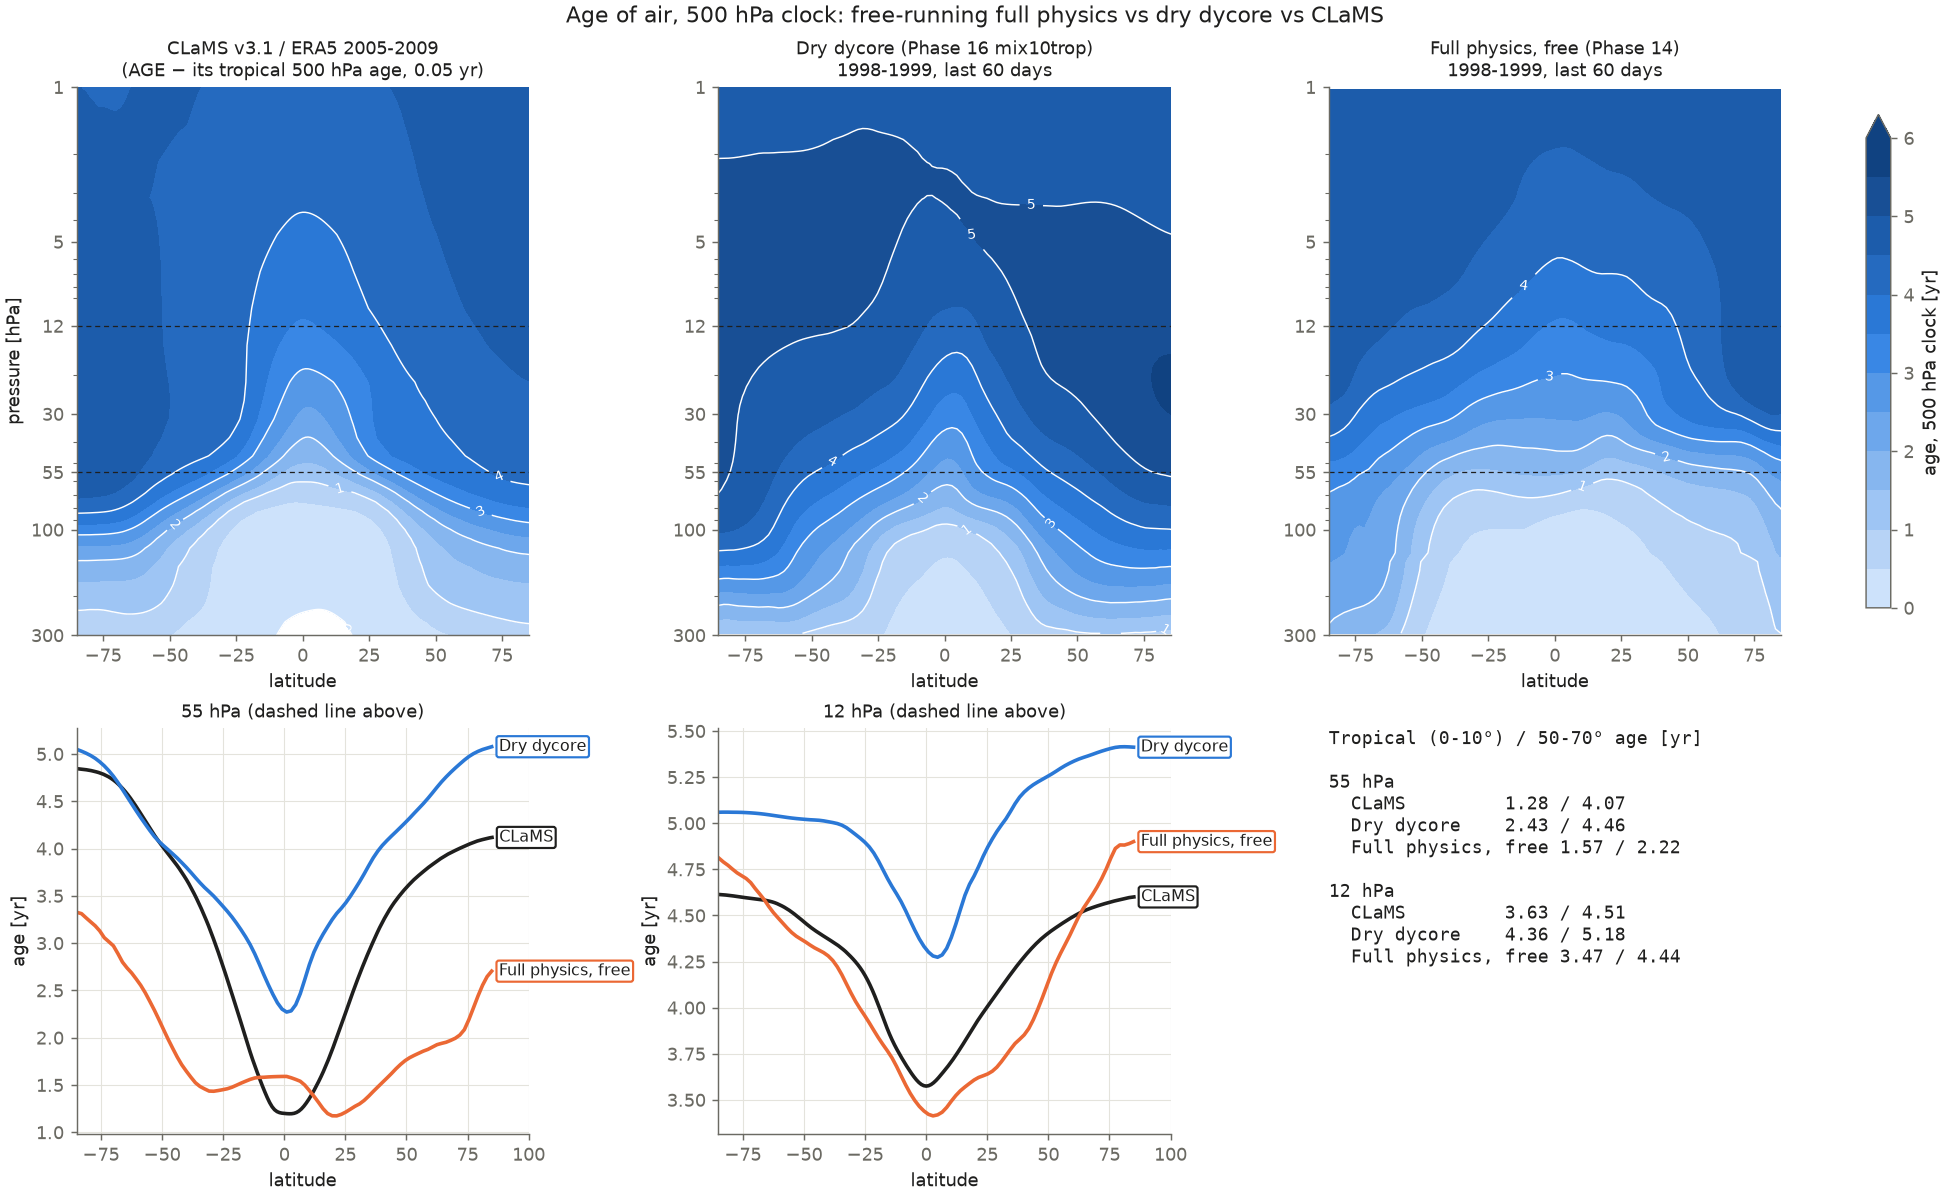
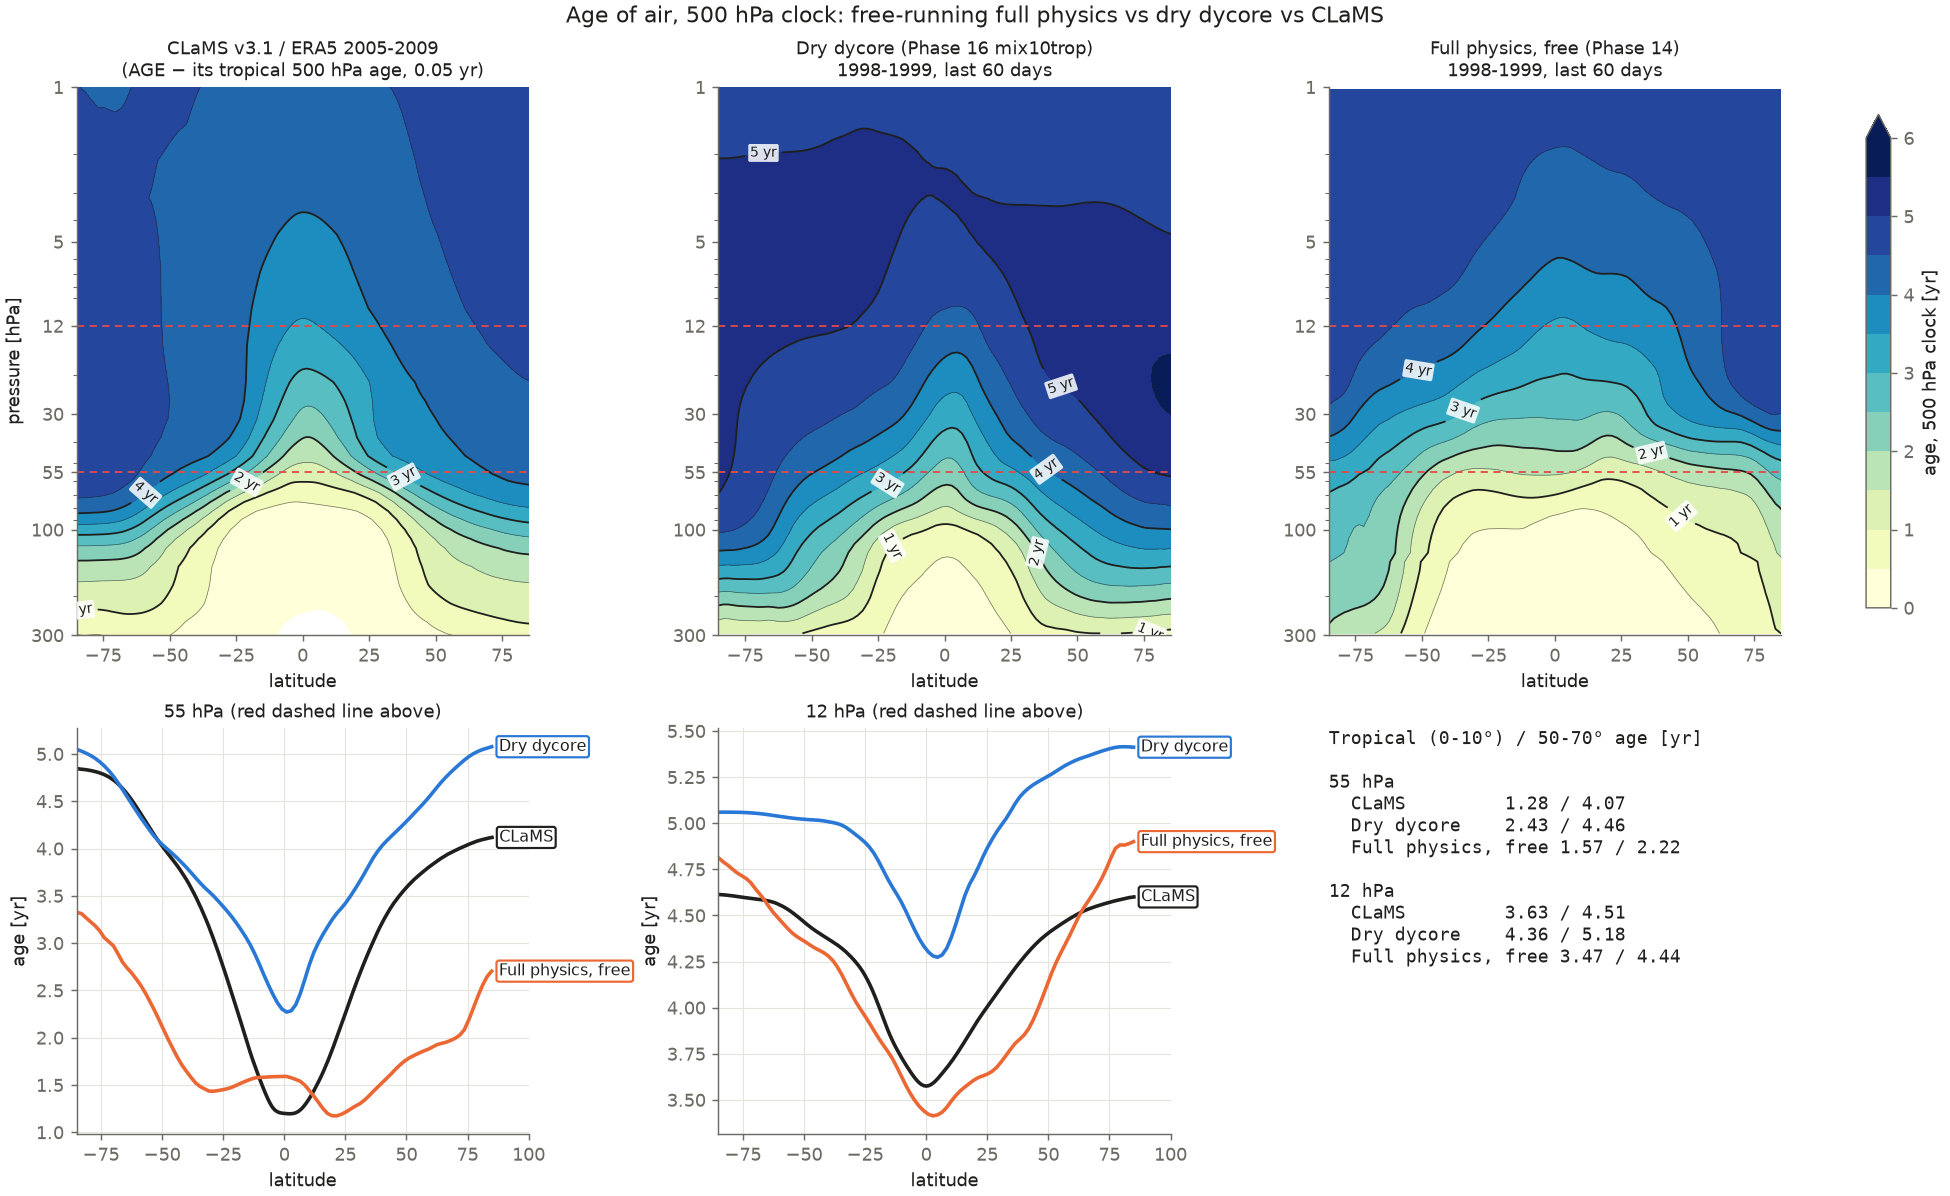
AoA triptych: yellow-green-blue sequential scale, labelled whole-year contours

diff --git a/scripts/compare_free_dry_clams.py b/scripts/compare_free_dry_clams.py
@@ -61,11 +61,16 @@ def fig_triptych(out, runs, clams):
         ax = fig.add_subplot(gs[0, j]); ax.grid(False)
         o = np.argsort(p); P, A = p[o], a[o]
         keep = (P >= 0.9) & (P <= 320)
-        cf = ax.contourf(lat, P[keep], A[keep], levels=levels, colors=SEQ[:len(levels) - 1], extend="max")
-        cs = ax.contour(lat, P[keep], A[keep], levels=levels[::2], colors="white", linewidths=0.8)
-        ax.clabel(cs, fmt="%.0f", fontsize=8, colors="white")
+        # yellow -> green -> blue: lightness falls monotonically with age (still a sequential scale, not a rainbow), and the
+        # hue change keeps neighbouring half-year bands apart, which twelve steps of one blue did not
+        cmap = plt.get_cmap("YlGnBu", len(levels) - 1)
+        cf = ax.contourf(lat, P[keep], A[keep], levels=levels, cmap=cmap, extend="max")
+        ax.contour(lat, P[keep], A[keep], levels=levels[1::2], colors=INK, linewidths=0.4, alpha=0.6)        # half years
+        cs = ax.contour(lat, P[keep], A[keep], levels=levels[::2][1:], colors=INK, linewidths=1.0)           # whole years
+        for t in ax.clabel(cs, fmt="%.0f yr", fontsize=8, colors=INK, inline_spacing=2):
+            t.set_bbox(dict(boxstyle="round,pad=0.12", fc="white", ec="none", alpha=0.85))              # readable on the dark blues
         for pl in (55, 12):
-            ax.axhline(pl, color=INK, lw=0.7, ls=(0, (4, 3)))
+            ax.axhline(pl, color="#e34948", lw=1.0, ls=(0, (4, 3)))
         ax.set_yscale("log"); ax.set_ylim(300, 1); ax.set_xlim(-85, 85)
         ax.set_yticks([300, 100, 55, 30, 12, 5, 1]); ax.set_yticklabels(["300", "100", "55", "30", "12", "5", "1"])
         ax.set_xlabel("latitude"); ax.set_title(title, fontsize=10, color=INK)
@@ -81,7 +86,7 @@ def fig_triptych(out, runs, clams):
             ax.plot(la[m], row[m], color=c, ls=ls)
             label_end(ax, la[m][-1], row[m][-1], n.split(" (")[0], c)
         ax.set_xlim(-85, 100); ax.set_xlabel("latitude"); ax.set_ylabel("age [yr]")
-        ax.set_title(f"{pl} hPa (dashed line above)", fontsize=10, color=INK)
+        ax.set_title(f"{pl} hPa (red dashed line above)", fontsize=10, color=INK)
     ax = fig.add_subplot(gs[1, 2]); ax.axis("off")
     txt = ["Tropical (0-10°) / 50-70° age [yr]", ""]
     for pl in (55, 12):
